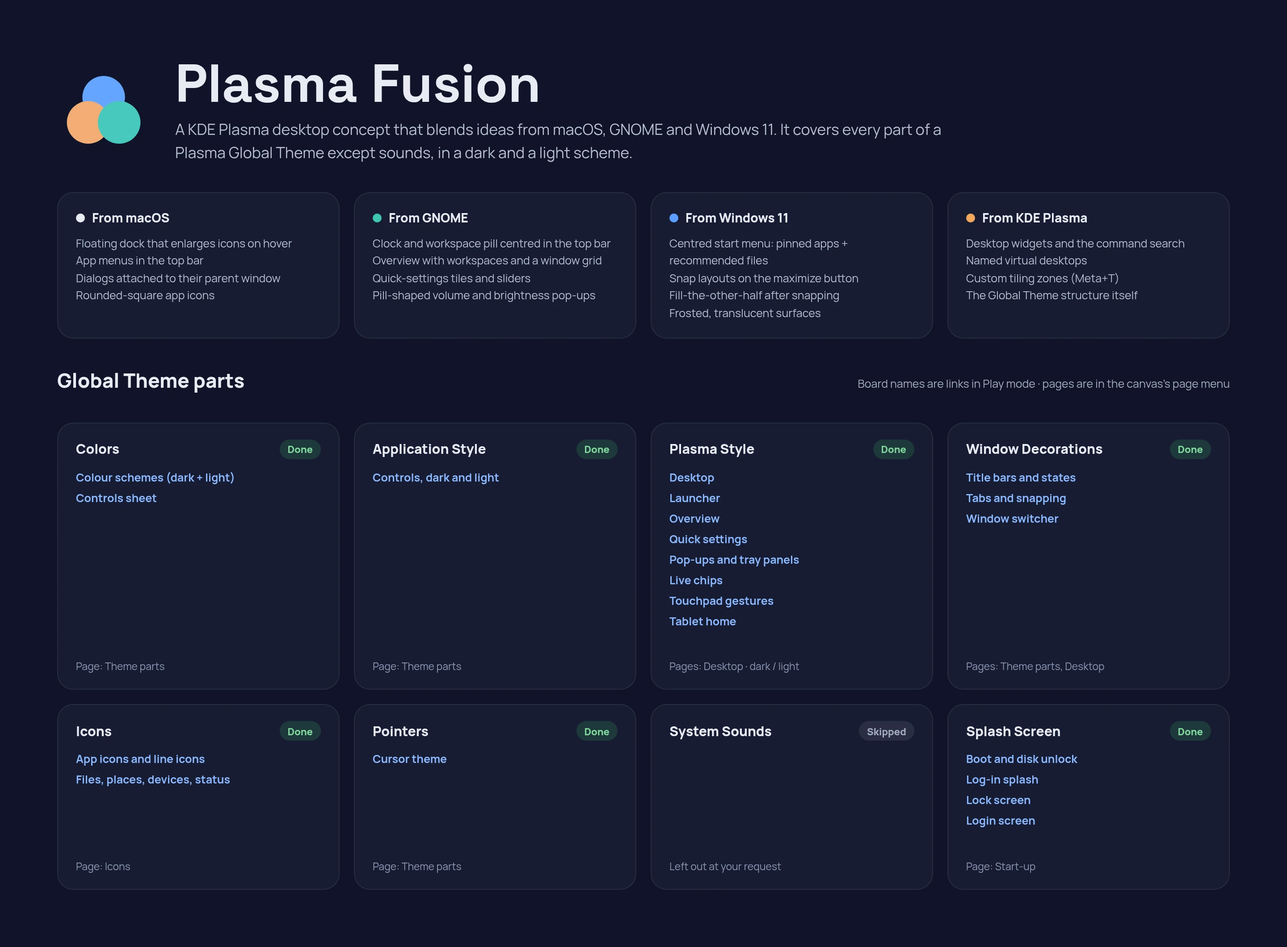
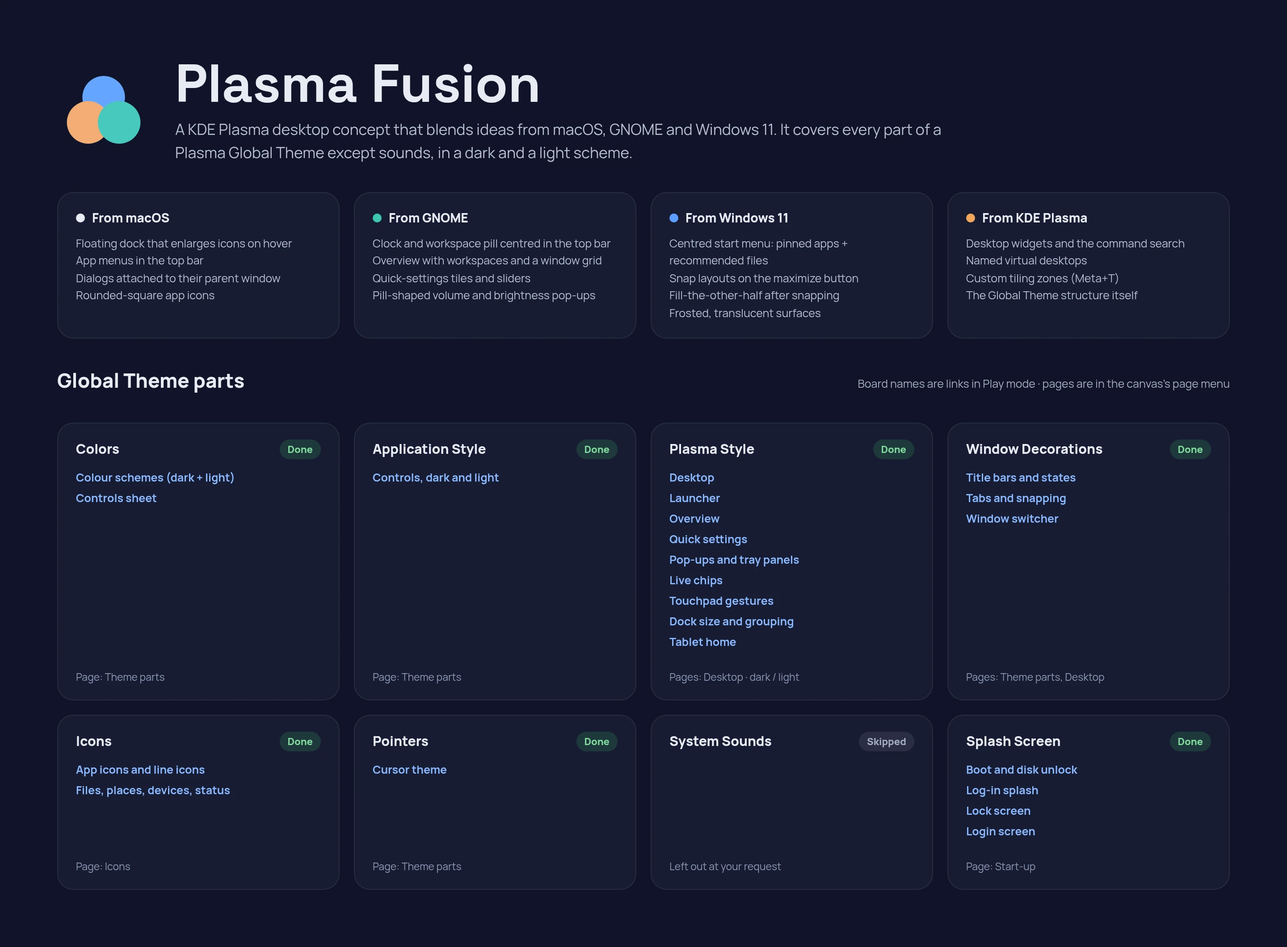
Design: a board for the dock's sizes and window grouping
The owner approved the dock size proposal on 2026-10-16, so it becomes a board before the build.
It draws the three sizes in dark on the wallpaper, the third app under the pointer with the
dock's falloff: Small (40 px icons, 7 px apart, a 60 px plate), Medium (today's 48 px dock, as on
the Main board) and Large (the Tablet board's 56 px dock on a 78 px plate). In light it draws
"Group an app's windows" on and off, and the settings page's rows (Dock size, the switch,
Magnified icon size as +8 / +14 px) in both.

Two values differ from the proposal, and the notes say why. The plate's corners stay 24 px at
every size: the plate is the Plasma style's one dock frame, shared by every bottom panel. The
running indicators are the Main board's (a dot for a running app, the accent pill for the active
one): the proposal drew wider bars for a group of windows, which no dock state shows. Small's
magnified 52 px is kept by scaling the step with icons below 48 px.

The board is number 28, on the dark desktop page under the live chips; the Contents board, the
design README and the board counts list it, and render.py --check passes for all 30.

diff --git a/design/boards/DockSize.dc.html b/design/boards/DockSize.dc.html
@@ -1,0 +1,60 @@
+<!doctype html>
+<html lang="en">
+<head>
+<meta charset="utf-8">
+<title>Plasma Fusion — dock size and window grouping</title>
+<script src="./support.js"></script>
+</head>
+<body>
+<x-dc>
+<helmet>
+<link rel="stylesheet" href="https://fonts.googleapis.com/css2?family=Manrope:wght@400;500;600;700;800&amp;family=Space+Grotesk:wght@500;600;700&amp;display=swap">
+<style>
+body{margin:0;font-family:'Manrope',system-ui,sans-serif;background:#10142a;color:#e8ebf4}
+button{font:inherit;color:inherit;border:0;padding:0;margin:0;background:none;cursor:default}
+svg{display:block;flex-shrink:0}
+svg.i{fill:none;stroke:currentColor;stroke-width:1.8;stroke-linecap:round;stroke-linejoin:round}
+.note{font-size:12.5px;line-height:1.6}
+</style>
+</helmet>
+<div id="board" style="width:1440px;height:1600px;overflow:hidden;display:flex;flex-direction:column;background:#10142a;color:#e8ebf4;font-size:13px">
+  <div style="padding:40px 28px 20px;display:flex;flex-direction:column;gap:10px">
+<span style="font-size:12px;font-weight:800;letter-spacing:0.12em;text-transform:uppercase;color:#f2c38a">Plasma Fusion · Dock, part 2</span>
+<h1 style="margin:0;font-family:'Space Grotesk',sans-serif;font-size:44px;font-weight:700;line-height:1.05">Dock size and window grouping</h1>
+<p style="margin:0;max-width:1180px;font-size:15px;line-height:1.55;color:#b8bfd3">Three dock sizes on the settings page, and a switch that gives each window its own icon. Medium is today's dock, unchanged; Large is the Tablet board's 56 px dock; Small is the one new size. The magnified size follows the dock: the page's choice is a step (+8 or +14 px) added to the icons, so magnification still shows at Large. In tablet posture the dock keeps its own 56 px tiles.</p>
+</div>
+  <div id="dark" style="background:#141a2e;padding:22px 28px 26px;display:flex;flex-direction:column;gap:18px">
+<span style="font-size:15px;font-weight:800">Dark · the three sizes, the third app under the pointer</span>
+<div style="display:flex;flex-direction:column;gap:8px"><div style="display:flex;align-items:baseline;gap:10px"><span style="font-size:17px;font-weight:800">Small</span><span style="font-size:12px;color:#8f97b0">new</span></div><div style="position:relative;width:1384px;height:116px;border-radius:12px;overflow:hidden;display:flex;align-items:flex-end;justify-content:center;padding-bottom:16px;box-sizing:border-box"><svg width="1384" height="116" viewBox="0 380 1440 520" preserveAspectRatio="xMidYMax slice" aria-hidden="true" style="position:absolute;left:0;top:0"><rect y="380" width="1440" height="520" fill="#141a2e"></rect><circle cx="1010" cy="360" r="150" fill="#f2a65a"></circle><path d="M0 560 L180 430 L330 505 L520 350 L700 485 L860 405 L1060 520 L1240 385 L1440 470 L1440 900 L0 900 Z" fill="#253058"></path><path d="M0 650 L220 545 L420 620 L640 505 L880 612 L1100 540 L1300 622 L1440 580 L1440 900 L0 900 Z" fill="#2e3d73"></path><path d="M0 760 L260 662 L520 732 L780 642 L1040 722 L1280 662 L1440 702 L1440 900 L0 900 Z" fill="#3b56a0"></path><path d="M0 846 L300 786 L600 834 L900 774 L1200 824 L1440 792 L1440 900 L0 900 Z" fill="#4a68b8"></path></svg><div style="position:relative"><nav aria-label="Dock" style="display:flex;align-items:flex-end;gap:7px;padding:8px 10px 12px;border-radius:24px;background:rgba(14,18,34,0.6);backdrop-filter:blur(28px) saturate(1.4);-webkit-backdrop-filter:blur(28px) saturate(1.4);border:1px solid rgba(255,255,255,0.1);box-shadow:0 18px 44px rgba(0,0,0,0.35)"><button aria-label="Start" style="width:40px;height:40px;border-radius:11px;background:rgba(255,255,255,0.08);color:#e8ebf4;display:flex;align-items:center;justify-content:center"><svg width="23" height="23" viewBox="0 0 24 24" aria-hidden="true"><circle cx="12" cy="8.5" r="5.5" fill="#5b9dff" fill-opacity="0.9"></circle><circle cx="8" cy="15" r="5.5" fill="#f2a65a" fill-opacity="0.9"></circle><circle cx="16" cy="15" r="5.5" fill="#3cc4b0" fill-opacity="0.85"></circle></svg></button><button aria-label="Search" style="width:40px;height:40px;border-radius:11px;background:rgba(255,255,255,0.08);color:#e8ebf4;display:flex;align-items:center;justify-content:center"><svg class="i" width="20" height="20" viewBox="0 0 24 24"><path d="M4 11a7 7 0 1 0 14 0a7 7 0 1 0-14 0M20 20l-4-4"></path></svg></button><button aria-label="Overview" style="width:40px;height:40px;border-radius:11px;background:rgba(255,255,255,0.08);color:#e8ebf4;display:flex;align-items:center;justify-content:center"><svg class="i" width="20" height="20" viewBox="0 0 24 24"><path d="M4 5h11a1 1 0 0 1 1 1v8a1 1 0 0 1-1 1H4a1 1 0 0 1-1-1V6a1 1 0 0 1 1-1zM8 19h12a1 1 0 0 0 1-1V9"></path></svg></button><span style="width:1px;height:30px;margin:0 3px 5px;background:rgba(255,255,255,0.16)"></span><div style="position:relative;display:flex;flex-direction:column;align-items:center"><button aria-label="Dolphin" style="display:block;width:40px;height:40px;border-radius:11px;filter:drop-shadow(0 3px 6px rgba(0,0,0,0.35))"><dc-import name="AppIcon" app="dolphin" size="40" hint-size="40px,40px"></dc-import></button><span style="position:absolute;bottom:-9px;height:4px;border-radius:2px;width:5px;background:rgba(255,255,255,0.6)"></span></div><div style="position:relative;display:flex;flex-direction:column;align-items:center"><button aria-label="Firefox" style="display:block;width:45px;height:45px;border-radius:12px;filter:drop-shadow(0 3px 6px rgba(0,0,0,0.35))"><dc-import name="AppIcon" app="firefox" size="45" hint-size="45px,45px"></dc-import></button><span style="position:absolute;bottom:-9px;height:4px;border-radius:2px;width:5px;background:rgba(255,255,255,0.6)"></span></div><div style="position:relative;display:flex;flex-direction:column;align-items:center"><button aria-label="Konsole" style="display:block;width:52px;height:52px;border-radius:14px;filter:drop-shadow(0 3px 6px rgba(0,0,0,0.35))"><dc-import name="AppIcon" app="terminal" size="52" hint-size="52px,52px"></dc-import></button></div><div style="position:relative;display:flex;flex-direction:column;align-items:center"><button aria-label="KMail" style="display:block;width:45px;height:45px;border-radius:12px;filter:drop-shadow(0 3px 6px rgba(0,0,0,0.35))"><dc-import name="AppIcon" app="kmail" size="45" hint-size="45px,45px"></dc-import></button></div><div style="position:relative;display:flex;flex-direction:column;align-items:center"><button aria-label="Elisa" style="display:block;width:40px;height:40px;border-radius:11px;filter:drop-shadow(0 3px 6px rgba(0,0,0,0.35))"><dc-import name="AppIcon" app="elisa" size="40" hint-size="40px,40px"></dc-import></button><span style="position:absolute;bottom:-9px;height:4px;border-radius:2px;width:5px;background:rgba(255,255,255,0.6)"></span></div><div style="position:relative;display:flex;flex-direction:column;align-items:center"><button aria-label="Gwenview" style="display:block;width:40px;height:40px;border-radius:11px;filter:drop-shadow(0 3px 6px rgba(0,0,0,0.35))"><dc-import name="AppIcon" app="gwenview" size="40" hint-size="40px,40px"></dc-import></button></div><div style="position:relative;display:flex;flex-direction:column;align-items:center"><button aria-label="System Settings" style="display:block;width:40px;height:40px;border-radius:11px;filter:drop-shadow(0 3px 6px rgba(0,0,0,0.35))"><dc-import name="AppIcon" app="systemsettings" size="40" hint-size="40px,40px"></dc-import></button><span style="position:absolute;bottom:-9px;height:4px;border-radius:2px;width:16px;background:#8ab8ff"></span></div><span style="width:1px;height:30px;margin:0 3px 5px;background:rgba(255,255,255,0.16)"></span><button aria-label="Downloads" style="width:40px;height:40px;border-radius:11px;background:rgba(255,255,255,0.08);color:#e8ebf4;display:flex;align-items:center;justify-content:center;position:relative"><span style="position:absolute;left:10px;top:8px;width:18px;height:23px;border-radius:3px;background:#f2a65a;transform:rotate(-10deg)"></span><span style="position:absolute;left:12px;top:8px;width:18px;height:23px;border-radius:3px;background:#5b9dff;transform:rotate(6deg)"></span><span style="position:absolute;left:11px;top:9px;width:18px;height:23px;border-radius:3px;background:#e8ebf4;display:flex;align-items:center;justify-content:center;color:#1b2031"><svg class="i" width="12" height="12" viewBox="0 0 24 24"><path d="M12 4v11M7 10l5 5 5-5M5 20h14"></path></svg></span></button><button aria-label="Trash" style="width:40px;height:40px;border-radius:11px;background:rgba(255,255,255,0.08);color:#e8ebf4;display:flex;align-items:center;justify-content:center"><svg class="i" width="20" height="20" viewBox="0 0 24 24"><path d="M4 7h16M9 7V4h6v3M6 7l1 13h10l1-13M10 11v5M14 11v5"></path></svg></button></nav></div></div><span style="font:600 12px 'Space Grotesk',sans-serif;color:#a9c6ff">icons 40 px · 7 px apart · plate 60 px · corners 24 px · separator 30 px · magnified 52 px (+12)</span></div><div style="display:flex;flex-direction:column;gap:8px"><div style="display:flex;align-items:baseline;gap:10px"><span style="font-size:17px;font-weight:800">Medium</span><span style="font-size:12px;color:#8f97b0">today's dock, the Main board</span></div><div style="position:relative;width:1384px;height:128px;border-radius:12px;overflow:hidden;display:flex;align-items:flex-end;justify-content:center;padding-bottom:16px;box-sizing:border-box"><svg width="1384" height="128" viewBox="0 380 1440 520" preserveAspectRatio="xMidYMax slice" aria-hidden="true" style="position:absolute;left:0;top:0"><rect y="380" width="1440" height="520" fill="#141a2e"></rect><circle cx="1010" cy="360" r="150" fill="#f2a65a"></circle><path d="M0 560 L180 430 L330 505 L520 350 L700 485 L860 405 L1060 520 L1240 385 L1440 470 L1440 900 L0 900 Z" fill="#253058"></path><path d="M0 650 L220 545 L420 620 L640 505 L880 612 L1100 540 L1300 622 L1440 580 L1440 900 L0 900 Z" fill="#2e3d73"></path><path d="M0 760 L260 662 L520 732 L780 642 L1040 722 L1280 662 L1440 702 L1440 900 L0 900 Z" fill="#3b56a0"></path><path d="M0 846 L300 786 L600 834 L900 774 L1200 824 L1440 792 L1440 900 L0 900 Z" fill="#4a68b8"></path></svg><div style="position:relative"><nav aria-label="Dock" style="display:flex;align-items:flex-end;gap:8px;padding:10px 12px 14px;border-radius:24px;background:rgba(14,18,34,0.6);backdrop-filter:blur(28px) saturate(1.4);-webkit-backdrop-filter:blur(28px) saturate(1.4);border:1px solid rgba(255,255,255,0.1);box-shadow:0 18px 44px rgba(0,0,0,0.35)"><button aria-label="Start" style="width:48px;height:48px;border-radius:13px;background:rgba(255,255,255,0.08);color:#e8ebf4;display:flex;align-items:center;justify-content:center"><svg width="28" height="28" viewBox="0 0 24 24" aria-hidden="true"><circle cx="12" cy="8.5" r="5.5" fill="#5b9dff" fill-opacity="0.9"></circle><circle cx="8" cy="15" r="5.5" fill="#f2a65a" fill-opacity="0.9"></circle><circle cx="16" cy="15" r="5.5" fill="#3cc4b0" fill-opacity="0.85"></circle></svg></button><button aria-label="Search" style="width:48px;height:48px;border-radius:13px;background:rgba(255,255,255,0.08);color:#e8ebf4;display:flex;align-items:center;justify-content:center"><svg class="i" width="24" height="24" viewBox="0 0 24 24"><path d="M4 11a7 7 0 1 0 14 0a7 7 0 1 0-14 0M20 20l-4-4"></path></svg></button><button aria-label="Overview" style="width:48px;height:48px;border-radius:13px;background:rgba(255,255,255,0.08);color:#e8ebf4;display:flex;align-items:center;justify-content:center"><svg class="i" width="24" height="24" viewBox="0 0 24 24"><path d="M4 5h11a1 1 0 0 1 1 1v8a1 1 0 0 1-1 1H4a1 1 0 0 1-1-1V6a1 1 0 0 1 1-1zM8 19h12a1 1 0 0 0 1-1V9"></path></svg></button><span style="width:1px;height:36px;margin:0 4px 6px;background:rgba(255,255,255,0.16)"></span><div style="position:relative;display:flex;flex-direction:column;align-items:center"><button aria-label="Dolphin" style="display:block;width:48px;height:48px;border-radius:13px;filter:drop-shadow(0 3px 6px rgba(0,0,0,0.35))"><dc-import name="AppIcon" app="dolphin" size="48" hint-size="48px,48px"></dc-import></button><span style="position:absolute;bottom:-9px;height:4px;border-radius:2px;width:5px;background:rgba(255,255,255,0.6)"></span></div><div style="position:relative;display:flex;flex-direction:column;align-items:center"><button aria-label="Firefox" style="display:block;width:54px;height:54px;border-radius:15px;filter:drop-shadow(0 3px 6px rgba(0,0,0,0.35))"><dc-import name="AppIcon" app="firefox" size="54" hint-size="54px,54px"></dc-import></button><span style="position:absolute;bottom:-9px;height:4px;border-radius:2px;width:5px;background:rgba(255,255,255,0.6)"></span></div><div style="position:relative;display:flex;flex-direction:column;align-items:center"><button aria-label="Konsole" style="display:block;width:62px;height:62px;border-radius:17px;filter:drop-shadow(0 3px 6px rgba(0,0,0,0.35))"><dc-import name="AppIcon" app="terminal" size="62" hint-size="62px,62px"></dc-import></button></div><div style="position:relative;display:flex;flex-direction:column;align-items:center"><button aria-label="KMail" style="display:block;width:54px;height:54px;border-radius:15px;filter:drop-shadow(0 3px 6px rgba(0,0,0,0.35))"><dc-import name="AppIcon" app="kmail" size="54" hint-size="54px,54px"></dc-import></button></div><div style="position:relative;display:flex;flex-direction:column;align-items:center"><button aria-label="Elisa" style="display:block;width:48px;height:48px;border-radius:13px;filter:drop-shadow(0 3px 6px rgba(0,0,0,0.35))"><dc-import name="AppIcon" app="elisa" size="48" hint-size="48px,48px"></dc-import></button><span style="position:absolute;bottom:-9px;height:4px;border-radius:2px;width:5px;background:rgba(255,255,255,0.6)"></span></div><div style="position:relative;display:flex;flex-direction:column;align-items:center"><button aria-label="Gwenview" style="display:block;width:48px;height:48px;border-radius:13px;filter:drop-shadow(0 3px 6px rgba(0,0,0,0.35))"><dc-import name="AppIcon" app="gwenview" size="48" hint-size="48px,48px"></dc-import></button></div><div style="position:relative;display:flex;flex-direction:column;align-items:center"><button aria-label="System Settings" style="display:block;width:48px;height:48px;border-radius:13px;filter:drop-shadow(0 3px 6px rgba(0,0,0,0.35))"><dc-import name="AppIcon" app="systemsettings" size="48" hint-size="48px,48px"></dc-import></button><span style="position:absolute;bottom:-9px;height:4px;border-radius:2px;width:16px;background:#8ab8ff"></span></div><span style="width:1px;height:36px;margin:0 4px 6px;background:rgba(255,255,255,0.16)"></span><button aria-label="Downloads" style="width:48px;height:48px;border-radius:13px;background:rgba(255,255,255,0.08);color:#e8ebf4;display:flex;align-items:center;justify-content:center;position:relative"><span style="position:absolute;left:12px;top:9px;width:22px;height:28px;border-radius:4px;background:#f2a65a;transform:rotate(-10deg)"></span><span style="position:absolute;left:15px;top:10px;width:22px;height:28px;border-radius:4px;background:#5b9dff;transform:rotate(6deg)"></span><span style="position:absolute;left:13px;top:11px;width:22px;height:28px;border-radius:4px;background:#e8ebf4;display:flex;align-items:center;justify-content:center;color:#1b2031"><svg class="i" width="14" height="14" viewBox="0 0 24 24"><path d="M12 4v11M7 10l5 5 5-5M5 20h14"></path></svg></span></button><button aria-label="Trash" style="width:48px;height:48px;border-radius:13px;background:rgba(255,255,255,0.08);color:#e8ebf4;display:flex;align-items:center;justify-content:center"><svg class="i" width="24" height="24" viewBox="0 0 24 24"><path d="M4 7h16M9 7V4h6v3M6 7l1 13h10l1-13M10 11v5M14 11v5"></path></svg></button></nav></div></div><span style="font:600 12px 'Space Grotesk',sans-serif;color:#a9c6ff">icons 48 px · 8 px apart · plate 72 px · corners 24 px · separator 36 px · magnified 62 px (+14)</span></div><div style="display:flex;flex-direction:column;gap:8px"><div style="display:flex;align-items:baseline;gap:10px"><span style="font-size:17px;font-weight:800">Large</span><span style="font-size:12px;color:#8f97b0">the Tablet board's 56 px dock</span></div><div style="position:relative;width:1384px;height:134px;border-radius:12px;overflow:hidden;display:flex;align-items:flex-end;justify-content:center;padding-bottom:16px;box-sizing:border-box"><svg width="1384" height="134" viewBox="0 380 1440 520" preserveAspectRatio="xMidYMax slice" aria-hidden="true" style="position:absolute;left:0;top:0"><rect y="380" width="1440" height="520" fill="#141a2e"></rect><circle cx="1010" cy="360" r="150" fill="#f2a65a"></circle><path d="M0 560 L180 430 L330 505 L520 350 L700 485 L860 405 L1060 520 L1240 385 L1440 470 L1440 900 L0 900 Z" fill="#253058"></path><path d="M0 650 L220 545 L420 620 L640 505 L880 612 L1100 540 L1300 622 L1440 580 L1440 900 L0 900 Z" fill="#2e3d73"></path><path d="M0 760 L260 662 L520 732 L780 642 L1040 722 L1280 662 L1440 702 L1440 900 L0 900 Z" fill="#3b56a0"></path><path d="M0 846 L300 786 L600 834 L900 774 L1200 824 L1440 792 L1440 900 L0 900 Z" fill="#4a68b8"></path></svg><div style="position:relative"><nav aria-label="Dock" style="display:flex;align-items:flex-end;gap:12px;padding:10px 12px 12px;border-radius:24px;background:rgba(14,18,34,0.6);backdrop-filter:blur(28px) saturate(1.4);-webkit-backdrop-filter:blur(28px) saturate(1.4);border:1px solid rgba(255,255,255,0.1);box-shadow:0 18px 44px rgba(0,0,0,0.35)"><button aria-label="Start" style="width:56px;height:56px;border-radius:15px;background:rgba(255,255,255,0.08);color:#e8ebf4;display:flex;align-items:center;justify-content:center"><svg width="33" height="33" viewBox="0 0 24 24" aria-hidden="true"><circle cx="12" cy="8.5" r="5.5" fill="#5b9dff" fill-opacity="0.9"></circle><circle cx="8" cy="15" r="5.5" fill="#f2a65a" fill-opacity="0.9"></circle><circle cx="16" cy="15" r="5.5" fill="#3cc4b0" fill-opacity="0.85"></circle></svg></button><button aria-label="Search" style="width:56px;height:56px;border-radius:15px;background:rgba(255,255,255,0.08);color:#e8ebf4;display:flex;align-items:center;justify-content:center"><svg class="i" width="28" height="28" viewBox="0 0 24 24"><path d="M4 11a7 7 0 1 0 14 0a7 7 0 1 0-14 0M20 20l-4-4"></path></svg></button><button aria-label="Overview" style="width:56px;height:56px;border-radius:15px;background:rgba(255,255,255,0.08);color:#e8ebf4;display:flex;align-items:center;justify-content:center"><svg class="i" width="28" height="28" viewBox="0 0 24 24"><path d="M4 5h11a1 1 0 0 1 1 1v8a1 1 0 0 1-1 1H4a1 1 0 0 1-1-1V6a1 1 0 0 1 1-1zM8 19h12a1 1 0 0 0 1-1V9"></path></svg></button><span style="width:1px;height:40px;margin:0 6px 8px;background:rgba(255,255,255,0.16)"></span><div style="position:relative;display:flex;flex-direction:column;align-items:center"><button aria-label="Dolphin" style="display:block;width:56px;height:56px;border-radius:15px;filter:drop-shadow(0 3px 6px rgba(0,0,0,0.35))"><dc-import name="AppIcon" app="dolphin" size="56" hint-size="56px,56px"></dc-import></button><span style="position:absolute;bottom:-8px;height:4px;border-radius:2px;width:6px;background:rgba(255,255,255,0.6)"></span></div><div style="position:relative;display:flex;flex-direction:column;align-items:center"><button aria-label="Firefox" style="display:block;width:62px;height:62px;border-radius:17px;filter:drop-shadow(0 3px 6px rgba(0,0,0,0.35))"><dc-import name="AppIcon" app="firefox" size="62" hint-size="62px,62px"></dc-import></button><span style="position:absolute;bottom:-8px;height:4px;border-radius:2px;width:6px;background:rgba(255,255,255,0.6)"></span></div><div style="position:relative;display:flex;flex-direction:column;align-items:center"><button aria-label="Konsole" style="display:block;width:70px;height:70px;border-radius:19px;filter:drop-shadow(0 3px 6px rgba(0,0,0,0.35))"><dc-import name="AppIcon" app="terminal" size="70" hint-size="70px,70px"></dc-import></button></div><div style="position:relative;display:flex;flex-direction:column;align-items:center"><button aria-label="KMail" style="display:block;width:62px;height:62px;border-radius:17px;filter:drop-shadow(0 3px 6px rgba(0,0,0,0.35))"><dc-import name="AppIcon" app="kmail" size="62" hint-size="62px,62px"></dc-import></button></div><div style="position:relative;display:flex;flex-direction:column;align-items:center"><button aria-label="Elisa" style="display:block;width:56px;height:56px;border-radius:15px;filter:drop-shadow(0 3px 6px rgba(0,0,0,0.35))"><dc-import name="AppIcon" app="elisa" size="56" hint-size="56px,56px"></dc-import></button><span style="position:absolute;bottom:-8px;height:4px;border-radius:2px;width:6px;background:rgba(255,255,255,0.6)"></span></div><div style="position:relative;display:flex;flex-direction:column;align-items:center"><button aria-label="Gwenview" style="display:block;width:56px;height:56px;border-radius:15px;filter:drop-shadow(0 3px 6px rgba(0,0,0,0.35))"><dc-import name="AppIcon" app="gwenview" size="56" hint-size="56px,56px"></dc-import></button></div><div style="position:relative;display:flex;flex-direction:column;align-items:center"><button aria-label="System Settings" style="display:block;width:56px;height:56px;border-radius:15px;filter:drop-shadow(0 3px 6px rgba(0,0,0,0.35))"><dc-import name="AppIcon" app="systemsettings" size="56" hint-size="56px,56px"></dc-import></button><span style="position:absolute;bottom:-8px;height:4px;border-radius:2px;width:18px;background:#8ab8ff"></span></div><span style="width:1px;height:40px;margin:0 6px 8px;background:rgba(255,255,255,0.16)"></span><button aria-label="Downloads" style="width:56px;height:56px;border-radius:15px;background:rgba(255,255,255,0.08);color:#e8ebf4;display:flex;align-items:center;justify-content:center;position:relative"><span style="position:absolute;left:14px;top:10px;width:26px;height:33px;border-radius:5px;background:#f2a65a;transform:rotate(-10deg)"></span><span style="position:absolute;left:18px;top:12px;width:26px;height:33px;border-radius:5px;background:#5b9dff;transform:rotate(6deg)"></span><span style="position:absolute;left:15px;top:13px;width:26px;height:33px;border-radius:5px;background:#e8ebf4;display:flex;align-items:center;justify-content:center;color:#1b2031"><svg class="i" width="16" height="16" viewBox="0 0 24 24"><path d="M12 4v11M7 10l5 5 5-5M5 20h14"></path></svg></span></button><button aria-label="Trash" style="width:56px;height:56px;border-radius:15px;background:rgba(255,255,255,0.08);color:#e8ebf4;display:flex;align-items:center;justify-content:center"><svg class="i" width="28" height="28" viewBox="0 0 24 24"><path d="M4 7h16M9 7V4h6v3M6 7l1 13h10l1-13M10 11v5M14 11v5"></path></svg></button></nav></div></div><span style="font:600 12px 'Space Grotesk',sans-serif;color:#a9c6ff">icons 56 px · 12 px apart · plate 78 px · corners 24 px · separator 40 px · magnified 70 px (+14)</span></div>
+</div>
+  <div id="light" style="background:#dde6f4;color:#141827;padding:22px 28px 26px;display:flex;flex-direction:column;gap:14px">
+<span style="font-size:15px;font-weight:800">Light · Group an app's windows (Medium)</span>
+<div style="display:flex;gap:24px">
+<div style="display:flex;flex-direction:column;gap:8px"><div style="position:relative;width:680px;height:152px;border-radius:12px;overflow:hidden;display:flex;align-items:flex-end;justify-content:center;padding-bottom:16px;box-sizing:border-box"><svg width="680" height="152" viewBox="0 380 1440 520" preserveAspectRatio="xMidYMax slice" aria-hidden="true" style="position:absolute;left:0;top:0"><rect y="380" width="1440" height="520" fill="#dde6f4"></rect><circle cx="1010" cy="360" r="150" fill="#f2a65a"></circle><path d="M0 560 L180 430 L330 505 L520 350 L700 485 L860 405 L1060 520 L1240 385 L1440 470 L1440 900 L0 900 Z" fill="#b9c9e8"></path><path d="M0 650 L220 545 L420 620 L640 505 L880 612 L1100 540 L1300 622 L1440 580 L1440 900 L0 900 Z" fill="#9bb2e0"></path><path d="M0 760 L260 662 L520 732 L780 642 L1040 722 L1280 662 L1440 702 L1440 900 L0 900 Z" fill="#7896d4"></path><path d="M0 846 L300 786 L600 834 L900 774 L1200 824 L1440 792 L1440 900 L0 900 Z" fill="#5a7fd6"></path></svg><div style="position:relative"><nav aria-label="Dock" style="display:flex;align-items:flex-end;gap:8px;padding:10px 12px 14px;border-radius:24px;background:rgba(255,255,255,0.7);backdrop-filter:blur(28px) saturate(1.4);-webkit-backdrop-filter:blur(28px) saturate(1.4);border:1px solid rgba(20,24,39,0.1);box-shadow:0 18px 44px rgba(20,24,39,0.14)"><button aria-label="Start" style="width:48px;height:48px;border-radius:13px;background:rgba(20,24,39,0.08);color:#141827;display:flex;align-items:center;justify-content:center"><svg width="28" height="28" viewBox="0 0 24 24" aria-hidden="true"><circle cx="12" cy="8.5" r="5.5" fill="#5b9dff" fill-opacity="0.9"></circle><circle cx="8" cy="15" r="5.5" fill="#f2a65a" fill-opacity="0.9"></circle><circle cx="16" cy="15" r="5.5" fill="#3cc4b0" fill-opacity="0.85"></circle></svg></button><button aria-label="Search" style="width:48px;height:48px;border-radius:13px;background:rgba(20,24,39,0.08);color:#141827;display:flex;align-items:center;justify-content:center"><svg class="i" width="24" height="24" viewBox="0 0 24 24"><path d="M4 11a7 7 0 1 0 14 0a7 7 0 1 0-14 0M20 20l-4-4"></path></svg></button><button aria-label="Overview" style="width:48px;height:48px;border-radius:13px;background:rgba(20,24,39,0.08);color:#141827;display:flex;align-items:center;justify-content:center"><svg class="i" width="24" height="24" viewBox="0 0 24 24"><path d="M4 5h11a1 1 0 0 1 1 1v8a1 1 0 0 1-1 1H4a1 1 0 0 1-1-1V6a1 1 0 0 1 1-1zM8 19h12a1 1 0 0 0 1-1V9"></path></svg></button><span style="width:1px;height:36px;margin:0 4px 6px;background:rgba(20,24,39,0.16)"></span><div style="position:relative;display:flex;flex-direction:column;align-items:center"><button aria-label="Dolphin" style="display:block;width:48px;height:48px;border-radius:13px;filter:drop-shadow(0 3px 6px rgba(20,24,39,0.14))"><dc-import name="AppIcon" app="dolphin" size="48" hint-size="48px,48px"></dc-import></button><span style="position:absolute;bottom:-9px;height:4px;border-radius:2px;width:5px;background:rgba(20,24,39,0.6)"></span></div><div style="position:relative;display:flex;flex-direction:column;align-items:center"><button aria-label="Firefox" style="display:block;width:48px;height:48px;border-radius:13px;filter:drop-shadow(0 3px 6px rgba(20,24,39,0.14))"><dc-import name="AppIcon" app="firefox" size="48" hint-size="48px,48px"></dc-import></button><span style="position:absolute;bottom:-9px;height:4px;border-radius:2px;width:5px;background:rgba(20,24,39,0.6)"></span></div><div style="position:relative;display:flex;flex-direction:column;align-items:center"><button aria-label="Konsole" style="display:block;width:48px;height:48px;border-radius:13px;filter:drop-shadow(0 3px 6px rgba(20,24,39,0.14))"><dc-import name="AppIcon" app="terminal" size="48" hint-size="48px,48px"></dc-import></button><span style="position:absolute;bottom:-9px;height:4px;border-radius:2px;width:16px;background:#2f6fdf"></span></div><div style="position:relative;display:flex;flex-direction:column;align-items:center"><button aria-label="KMail" style="display:block;width:48px;height:48px;border-radius:13px;filter:drop-shadow(0 3px 6px rgba(20,24,39,0.14))"><dc-import name="AppIcon" app="kmail" size="48" hint-size="48px,48px"></dc-import></button></div><div style="position:relative;display:flex;flex-direction:column;align-items:center"><button aria-label="Elisa" style="display:block;width:48px;height:48px;border-radius:13px;filter:drop-shadow(0 3px 6px rgba(20,24,39,0.14))"><dc-import name="AppIcon" app="elisa" size="48" hint-size="48px,48px"></dc-import></button></div><span style="width:1px;height:36px;margin:0 4px 6px;background:rgba(20,24,39,0.16)"></span><button aria-label="Downloads" style="width:48px;height:48px;border-radius:13px;background:rgba(20,24,39,0.08);color:#141827;display:flex;align-items:center;justify-content:center;position:relative"><span style="position:absolute;left:12px;top:9px;width:22px;height:28px;border-radius:4px;background:#f2a65a;transform:rotate(-10deg)"></span><span style="position:absolute;left:15px;top:10px;width:22px;height:28px;border-radius:4px;background:#5b9dff;transform:rotate(6deg)"></span><span style="position:absolute;left:13px;top:11px;width:22px;height:28px;border-radius:4px;background:#ffffff;display:flex;align-items:center;justify-content:center;color:#141827"><svg class="i" width="14" height="14" viewBox="0 0 24 24"><path d="M12 4v11M7 10l5 5 5-5M5 20h14"></path></svg></span></button><button aria-label="Trash" style="width:48px;height:48px;border-radius:13px;background:rgba(20,24,39,0.08);color:#141827;display:flex;align-items:center;justify-content:center"><svg class="i" width="24" height="24" viewBox="0 0 24 24"><path d="M4 7h16M9 7V4h6v3M6 7l1 13h10l1-13M10 11v5M14 11v5"></path></svg></button></nav></div></div><span style="font-size:12.5px;color:#4d546a"><b style="color:#141827">On</b> (today): Konsole's two windows share one icon; a click goes to the last one used, a second click cycles them.</span></div>
+<div style="display:flex;flex-direction:column;gap:8px"><div style="position:relative;width:680px;height:152px;border-radius:12px;overflow:hidden;display:flex;align-items:flex-end;justify-content:center;padding-bottom:16px;box-sizing:border-box"><svg width="680" height="152" viewBox="0 380 1440 520" preserveAspectRatio="xMidYMax slice" aria-hidden="true" style="position:absolute;left:0;top:0"><rect y="380" width="1440" height="520" fill="#dde6f4"></rect><circle cx="1010" cy="360" r="150" fill="#f2a65a"></circle><path d="M0 560 L180 430 L330 505 L520 350 L700 485 L860 405 L1060 520 L1240 385 L1440 470 L1440 900 L0 900 Z" fill="#b9c9e8"></path><path d="M0 650 L220 545 L420 620 L640 505 L880 612 L1100 540 L1300 622 L1440 580 L1440 900 L0 900 Z" fill="#9bb2e0"></path><path d="M0 760 L260 662 L520 732 L780 642 L1040 722 L1280 662 L1440 702 L1440 900 L0 900 Z" fill="#7896d4"></path><path d="M0 846 L300 786 L600 834 L900 774 L1200 824 L1440 792 L1440 900 L0 900 Z" fill="#5a7fd6"></path></svg><div style="position:relative"><nav aria-label="Dock" style="display:flex;align-items:flex-end;gap:8px;padding:10px 12px 14px;border-radius:24px;background:rgba(255,255,255,0.7);backdrop-filter:blur(28px) saturate(1.4);-webkit-backdrop-filter:blur(28px) saturate(1.4);border:1px solid rgba(20,24,39,0.1);box-shadow:0 18px 44px rgba(20,24,39,0.14)"><button aria-label="Start" style="width:48px;height:48px;border-radius:13px;background:rgba(20,24,39,0.08);color:#141827;display:flex;align-items:center;justify-content:center"><svg width="28" height="28" viewBox="0 0 24 24" aria-hidden="true"><circle cx="12" cy="8.5" r="5.5" fill="#5b9dff" fill-opacity="0.9"></circle><circle cx="8" cy="15" r="5.5" fill="#f2a65a" fill-opacity="0.9"></circle><circle cx="16" cy="15" r="5.5" fill="#3cc4b0" fill-opacity="0.85"></circle></svg></button><button aria-label="Search" style="width:48px;height:48px;border-radius:13px;background:rgba(20,24,39,0.08);color:#141827;display:flex;align-items:center;justify-content:center"><svg class="i" width="24" height="24" viewBox="0 0 24 24"><path d="M4 11a7 7 0 1 0 14 0a7 7 0 1 0-14 0M20 20l-4-4"></path></svg></button><button aria-label="Overview" style="width:48px;height:48px;border-radius:13px;background:rgba(20,24,39,0.08);color:#141827;display:flex;align-items:center;justify-content:center"><svg class="i" width="24" height="24" viewBox="0 0 24 24"><path d="M4 5h11a1 1 0 0 1 1 1v8a1 1 0 0 1-1 1H4a1 1 0 0 1-1-1V6a1 1 0 0 1 1-1zM8 19h12a1 1 0 0 0 1-1V9"></path></svg></button><span style="width:1px;height:36px;margin:0 4px 6px;background:rgba(20,24,39,0.16)"></span><div style="position:relative;display:flex;flex-direction:column;align-items:center"><button aria-label="Dolphin" style="display:block;width:48px;height:48px;border-radius:13px;filter:drop-shadow(0 3px 6px rgba(20,24,39,0.14))"><dc-import name="AppIcon" app="dolphin" size="48" hint-size="48px,48px"></dc-import></button><span style="position:absolute;bottom:-9px;height:4px;border-radius:2px;width:5px;background:rgba(20,24,39,0.6)"></span></div><div style="position:relative;display:flex;flex-direction:column;align-items:center"><button aria-label="Firefox" style="display:block;width:48px;height:48px;border-radius:13px;filter:drop-shadow(0 3px 6px rgba(20,24,39,0.14))"><dc-import name="AppIcon" app="firefox" size="48" hint-size="48px,48px"></dc-import></button><span style="position:absolute;bottom:-9px;height:4px;border-radius:2px;width:5px;background:rgba(20,24,39,0.6)"></span></div><div style="position:relative;display:flex;flex-direction:column;align-items:center"><button aria-label="Konsole" style="display:block;width:48px;height:48px;border-radius:13px;filter:drop-shadow(0 3px 6px rgba(20,24,39,0.14))"><dc-import name="AppIcon" app="terminal" size="48" hint-size="48px,48px"></dc-import></button><span style="position:absolute;bottom:-9px;height:4px;border-radius:2px;width:5px;background:rgba(20,24,39,0.6)"></span></div><div style="position:relative;display:flex;flex-direction:column;align-items:center"><button aria-label="Konsole" style="display:block;width:48px;height:48px;border-radius:13px;filter:drop-shadow(0 3px 6px rgba(20,24,39,0.14))"><dc-import name="AppIcon" app="terminal" size="48" hint-size="48px,48px"></dc-import></button><span style="position:absolute;bottom:-9px;height:4px;border-radius:2px;width:16px;background:#2f6fdf"></span></div><div style="position:relative;display:flex;flex-direction:column;align-items:center"><button aria-label="KMail" style="display:block;width:48px;height:48px;border-radius:13px;filter:drop-shadow(0 3px 6px rgba(20,24,39,0.14))"><dc-import name="AppIcon" app="kmail" size="48" hint-size="48px,48px"></dc-import></button></div><div style="position:relative;display:flex;flex-direction:column;align-items:center"><button aria-label="Elisa" style="display:block;width:48px;height:48px;border-radius:13px;filter:drop-shadow(0 3px 6px rgba(20,24,39,0.14))"><dc-import name="AppIcon" app="elisa" size="48" hint-size="48px,48px"></dc-import></button></div><span style="width:1px;height:36px;margin:0 4px 6px;background:rgba(20,24,39,0.16)"></span><button aria-label="Downloads" style="width:48px;height:48px;border-radius:13px;background:rgba(20,24,39,0.08);color:#141827;display:flex;align-items:center;justify-content:center;position:relative"><span style="position:absolute;left:12px;top:9px;width:22px;height:28px;border-radius:4px;background:#f2a65a;transform:rotate(-10deg)"></span><span style="position:absolute;left:15px;top:10px;width:22px;height:28px;border-radius:4px;background:#5b9dff;transform:rotate(6deg)"></span><span style="position:absolute;left:13px;top:11px;width:22px;height:28px;border-radius:4px;background:#ffffff;display:flex;align-items:center;justify-content:center;color:#141827"><svg class="i" width="14" height="14" viewBox="0 0 24 24"><path d="M12 4v11M7 10l5 5 5-5M5 20h14"></path></svg></span></button><button aria-label="Trash" style="width:48px;height:48px;border-radius:13px;background:rgba(20,24,39,0.08);color:#141827;display:flex;align-items:center;justify-content:center"><svg class="i" width="24" height="24" viewBox="0 0 24 24"><path d="M4 7h16M9 7V4h6v3M6 7l1 13h10l1-13M10 11v5M14 11v5"></path></svg></button></nav></div></div><span style="font-size:12.5px;color:#4d546a"><b style="color:#141827">Off</b>: each window has its own icon, side by side where the app is pinned; a click goes straight to that window.</span></div>
+</div>
+</div>
+  <div style="background:#141a2e;padding:22px 28px 26px;display:flex;gap:24px;align-items:flex-start">
+<div style="display:flex;flex-direction:column;gap:10px"><span style="font-size:15px;font-weight:800">On the settings page, dark</span><div style="width:560px;box-sizing:border-box;padding:16px 20px 12px;border-radius:14px;background:#1b2031;border:1px solid rgba(255,255,255,0.14);color:#e8ebf4"><span style="display:block;font-size:13px;font-weight:800;color:#a3abc2;margin-bottom:6px">Dock and top bar</span><div style="display:flex;align-items:center;justify-content:space-between;gap:12px;min-height:44px;border-bottom:1px solid rgba(255,255,255,0.06)"><span style="font-size:13px">Dock size</span><div role="radiogroup" style="display:flex;gap:2px;padding:3px;border-radius:9px;background:rgba(255,255,255,0.06)"><button role="radio" aria-checked="false" aria-label="Small" style="font-size:12px;padding:5px 11px;border-radius:7px;color:#cdd3e4;font-weight:600">Small</button><button role="radio" aria-checked="true" aria-label="Medium" style="font-size:12px;padding:5px 11px;border-radius:7px;background:#2f6fdf;color:#ffffff;font-weight:800">Medium</button><button role="radio" aria-checked="false" aria-label="Large" style="font-size:12px;padding:5px 11px;border-radius:7px;color:#cdd3e4;font-weight:600">Large</button></div></div><div style="display:flex;align-items:center;justify-content:space-between;gap:12px;min-height:44px;border-bottom:1px solid rgba(255,255,255,0.06);padding:6px 0"><div style="display:flex;flex-direction:column;gap:2px"><span style="font-size:13px">Group an app's windows</span><span style="font-size:11.5px;color:#a3abc2">Off: one icon for each window.</span></div><button aria-pressed="true" aria-label="Group an app's windows" style="width:40px;height:22px;border-radius:11px;background:#2f6fdf;position:relative"><span style="position:absolute;right:2px;top:2px;width:18px;height:18px;border-radius:9px;background:#ffffff"></span></button></div><div style="display:flex;align-items:center;justify-content:space-between;gap:12px;min-height:44px;border-bottom:1px solid rgba(255,255,255,0.06);border-bottom:0"><span style="font-size:13px">Magnified icon size</span><div role="radiogroup" style="display:flex;gap:2px;padding:3px;border-radius:9px;background:rgba(255,255,255,0.06)"><button role="radio" aria-checked="false" aria-label="+8 px" style="font-size:12px;padding:5px 11px;border-radius:7px;color:#cdd3e4;font-weight:600">+8 px</button><button role="radio" aria-checked="true" aria-label="+14 px" style="font-size:12px;padding:5px 11px;border-radius:7px;background:#2f6fdf;color:#ffffff;font-weight:800">+14 px</button></div></div></div></div>
+<div style="display:flex;flex-direction:column;gap:10px;padding:16px;border-radius:16px;background:#dde6f4"><span style="font-size:15px;font-weight:800;color:#141827">and light (Small, grouping off)</span><div style="width:560px;box-sizing:border-box;padding:16px 20px 12px;border-radius:14px;background:#ffffff;border:1px solid rgba(20,24,39,0.14);color:#141827"><span style="display:block;font-size:13px;font-weight:800;color:#5b6278;margin-bottom:6px">Dock and top bar</span><div style="display:flex;align-items:center;justify-content:space-between;gap:12px;min-height:44px;border-bottom:1px solid rgba(20,24,39,0.06)"><span style="font-size:13px">Dock size</span><div role="radiogroup" style="display:flex;gap:2px;padding:3px;border-radius:9px;background:rgba(20,24,39,0.06)"><button role="radio" aria-checked="true" aria-label="Small" style="font-size:12px;padding:5px 11px;border-radius:7px;background:#2f6fdf;color:#ffffff;font-weight:800">Small</button><button role="radio" aria-checked="false" aria-label="Medium" style="font-size:12px;padding:5px 11px;border-radius:7px;color:#3a4055;font-weight:600">Medium</button><button role="radio" aria-checked="false" aria-label="Large" style="font-size:12px;padding:5px 11px;border-radius:7px;color:#3a4055;font-weight:600">Large</button></div></div><div style="display:flex;align-items:center;justify-content:space-between;gap:12px;min-height:44px;border-bottom:1px solid rgba(20,24,39,0.06);padding:6px 0"><div style="display:flex;flex-direction:column;gap:2px"><span style="font-size:13px">Group an app's windows</span><span style="font-size:11.5px;color:#4d546a">Off: one icon for each window.</span></div><button aria-pressed="false" aria-label="Group an app's windows" style="width:40px;height:22px;border-radius:11px;background:rgba(20,24,39,0.18);position:relative"><span style="position:absolute;left:2px;top:2px;width:18px;height:18px;border-radius:9px;background:#ffffff"></span></button></div><div style="display:flex;align-items:center;justify-content:space-between;gap:12px;min-height:44px;border-bottom:1px solid rgba(20,24,39,0.06);border-bottom:0"><span style="font-size:13px">Magnified icon size</span><div role="radiogroup" style="display:flex;gap:2px;padding:3px;border-radius:9px;background:rgba(20,24,39,0.06)"><button role="radio" aria-checked="false" aria-label="+8 px" style="font-size:12px;padding:5px 11px;border-radius:7px;color:#3a4055;font-weight:600">+8 px</button><button role="radio" aria-checked="true" aria-label="+14 px" style="font-size:12px;padding:5px 11px;border-radius:7px;background:#2f6fdf;color:#ffffff;font-weight:800">+14 px</button></div></div></div></div>
+</div>
+<div style="flex-grow:1;padding:22px 28px 30px;background:#10142a;color:#cdd3e4;display:flex;gap:40px">
+  <div class="note" style="flex:1"><b style="color:#e8ebf4">Sizes.</b> Small: 40 px icons 7 px apart, 30 px separators (3 px margins),
+  10 px from the plate's sides, 12 below; the fixed buttons 40 px with an 11 px radius and 20 px glyphs. Medium: the Main board, unchanged. Large: the
+  Tablet board's metrics (56 px, 12 px apart, 40 px separators, 6 x 4 dot and 18 x 4 pill 4 px under the icon). The plate (the panel) is 60, 72 or
+  78 px; its corners are the Plasma style's one dock frame, 24 px at every size.</div>
+  <div class="note" style="flex:1"><b style="color:#e8ebf4">Magnified size.</b> The page's +8 / +14 px is the step at Medium and Large
+  (56 and 62 px at Medium, as today; 64 and 70 at Large). Below 48 px the step shrinks with the icon (Small: +7 or +12, 47 and 52 px), so a small
+  dock does not swell past its neighbours. The neighbours follow the dock's falloff (3/7 of the step at the next icon).</div>
+  <div class="note" style="flex:1"><b style="color:#e8ebf4">Grouping off.</b> Each window is its own icon, with the window's running dot
+  or the active pill; no title on hover (the name pill keeps the app's name). The app's menu, previews and audio button act on that window; a pinned
+  app's windows stay at its pin. The other indicators are the Main board's.</div>
+</div></div>
+</x-dc>
+<script type="text/x-dc" data-dc-script data-props='{"$preview":{"width":1440,"height":1600}}'>
+class Component extends DCLogic {
+  renderVals() { return {}; }
+}
+</script>
+</body>
+</html>

diff --git a/design/boards/Contents.dc.html b/design/boards/Contents.dc.html
@@ -72,7 +72,7 @@ class Component extends DCLogic {
     const parts = [
       P('Colors', 'Done', [['Colour schemes (dark + light)', 'Colors.dc.html'], ['Controls sheet', 'Controls.dc.html']], 'Page: Theme parts'),
       P('Application Style', 'Done', [['Controls, dark and light', 'Controls.dc.html']], 'Page: Theme parts'),
-      P('Plasma Style', 'Done', [['Desktop', 'Main.dc.html'], ['Launcher', 'Launcher.dc.html'], ['Overview', 'Overview.dc.html'], ['Quick settings', 'QuickSettings.dc.html'], ['Pop-ups and tray panels', 'Popups.dc.html'], ['Live chips', 'LiveChips.dc.html'], ['Touchpad gestures', 'Gestures.dc.html'], ['Tablet home', 'Tablet.dc.html']], 'Pages: Desktop · dark / light'),
+      P('Plasma Style', 'Done', [['Desktop', 'Main.dc.html'], ['Launcher', 'Launcher.dc.html'], ['Overview', 'Overview.dc.html'], ['Quick settings', 'QuickSettings.dc.html'], ['Pop-ups and tray panels', 'Popups.dc.html'], ['Live chips', 'LiveChips.dc.html'], ['Touchpad gestures', 'Gestures.dc.html'], ['Dock size and grouping', 'DockSize.dc.html'], ['Tablet home', 'Tablet.dc.html']], 'Pages: Desktop · dark / light'),
       P('Window Decorations', 'Done', [['Title bars and states', 'Windows.dc.html'], ['Tabs and snapping', 'TabsSnap.dc.html'], ['Window switcher', 'AltTab.dc.html']], 'Pages: Theme parts, Desktop'),
       P('Icons', 'Done', [['App icons and line icons', 'Icons.dc.html'], ['Files, places, devices, status', 'FileIcons.dc.html']], 'Page: Icons'),
       P('Pointers', 'Done', [['Cursor theme', 'Pointers.dc.html']], 'Page: Theme parts'),

diff --git a/AGENTS.md b/AGENTS.md
@@ -63,7 +63,7 @@ checker sees them.
 | `tools/` | `build.sh` and `build.d/` (one script per part), `checks/` (the lints and their fixtures), `device/` (setup, restore, field log, gate — machine-facing tools), `tests/` (the packaging and release-VM harnesses), `plasma-fusion/` (the command-line tool) |
 | `scripts/` | `install.sh` — the one-line installer (its test mode is also what the release VMs install from) |
 | `docs/` | `PLAN.md`, `ARCHITECTURE.md`, `ROADMAP.md`, `SECURITY-ASSURANCE.md`, `parts/*.md` (one page per part: architecture, tests, how CI runs), `RELEASING.md` |
-| `design/` | the 27 design boards — the reference; the boards decide visuals, not the code |
+| `design/` | the 28 design boards — the reference; the boards decide visuals, not the code |
 | `packaging/` | `fedora/`, `arch/`, `debian/`, `nix/`, `check-version.sh`, `release-assets.sh` |
 | `fuzz/` | the fuzz targets (`app_icons`, `keyboard_keys`, `previous_theme`) |
 

diff --git a/design/README.md b/design/README.md
@@ -34,6 +34,10 @@ commands, the bundled fonts, the tile emitter and the tests.
 <td valign="top"><a href="previews/LiveChips.webp"><img src="previews/LiveChips.webp" width="420" alt="Live chips — privacy and activity, dark and light"></a><br><b>Live chips — privacy and activity, dark and light</b><br><a href="boards/LiveChips.dc.html">source</a></td>
 <td valign="top"><a href="previews/Gestures.webp"><img src="previews/Gestures.webp" width="420" alt="Touchpad gestures — settings, dark and light"></a><br><b>Touchpad gestures — settings, dark and light</b><br><a href="boards/Gestures.dc.html">source</a></td>
 </tr>
+<tr>
+<td valign="top"><a href="previews/DockSize.webp"><img src="previews/DockSize.webp" width="420" alt="Dock size and window grouping — dark and light"></a><br><b>Dock size and window grouping — dark and light</b><br><a href="boards/DockSize.dc.html">source</a></td>
+<td></td>
+</tr>
 </table>
 
 ## Desktop · light

diff --git a/docs/parts/boards.md b/docs/parts/boards.md
@@ -29,7 +29,7 @@ preview, a size mismatch, a mean per-channel difference over 12, or a worst wind
 20 (32 x 32 pixel windows, sliding in 16 px steps, so a small change cannot straddle every
 window) - the window test catches a stale preview whose change is confined to a small area, down
 to a 14 px icon. A board
-change re-renders the affected previews with this tool; `--check` over all 29 boards is the
+change re-renders the affected previews with this tool; `--check` over all 30 boards is the
 fidelity gate ([`docs/parts/icons.md`](icons.md) lists what the drawings mean).
 
 ## Per-app tiles

diff --git a/docs/PLAN.md b/docs/PLAN.md
@@ -98,7 +98,7 @@ Copied from section 2 of `/mnt/archledger-gp/artifacts/plasma-fusion/2026-09-30-
 ## Repository layout
 
 ```
-design/boards/            the 27 design boards (.dc.html) — the reference for every value
+design/boards/            the 28 design boards (.dc.html) — the reference for every value
 fonts/                    Manrope, Space Grotesk (+ OFL.txt)
 generators/<part>/        Python generators (stdlib + Pillow only; PySide6 allowed for QtSvg checks)
 packages/<part>/          hand-written sources (QML, JS, metadata, .colors, profiles)
